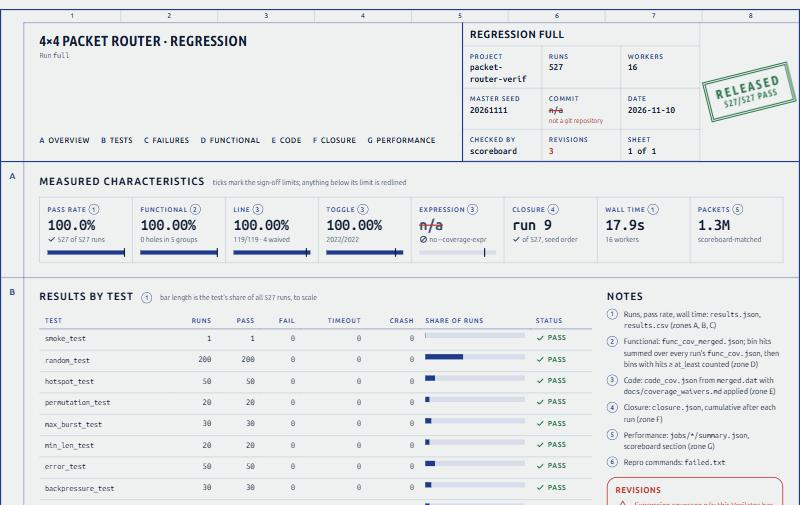
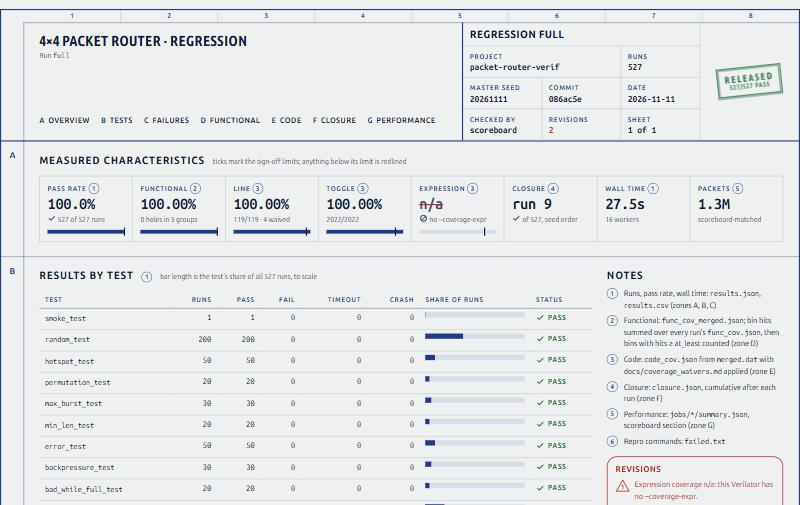
README: published-run numbers and dashboard screenshot

diff --git a/README.md b/README.md
@@ -215,7 +215,7 @@ contribution and the requirement-to-check traceability table.
 
 ## Results
 
-Full regression, `make full` (`out/full/`), master seed 20261111, 16 workers on WSL2
+Full regression, `make full` (`out/full/`, published as the live dashboard, commit `086ac5e`), master seed 20261111, 16 workers on WSL2
 Ubuntu 26.04, Verilator 5.032:
 
 | Metric | Result | Sign-off target |
@@ -226,7 +226,7 @@ Ubuntu 26.04, Verilator 5.032:
 | Line coverage | **100%** (119/119 points; 4 waived: the unreachable FSM `default:` arm × 4 instances) | ≥ 95% |
 | Toggle coverage | **100%** (2,022/2,022 points, none waived) | ≥ 90% |
 | Expression coverage | **n/a**: Verilator 5.032 has no `--coverage-expr` | ≥ 85% |
-| Simulation wall time | 17.9 s for 527 runs (coverage merge + dashboard add ~40 s) | — |
+| Simulation wall time | 18–28 s for 527 runs across runs on this laptop (published run: 27.5 s; coverage merge + dashboard add ~40 s) | — |
 | Quick suite (`make quick`) | 11 runs, 2–3.5 s of simulation, ~6 s end to end when the build is up to date (a clean compile adds 45–90 s) | < 2 min |
 | Reproducibility | same seed + binary → byte-identical log; same suite + master seed → identical job list, results and merged coverage | R-TB-02, R-PY-05 |
 
